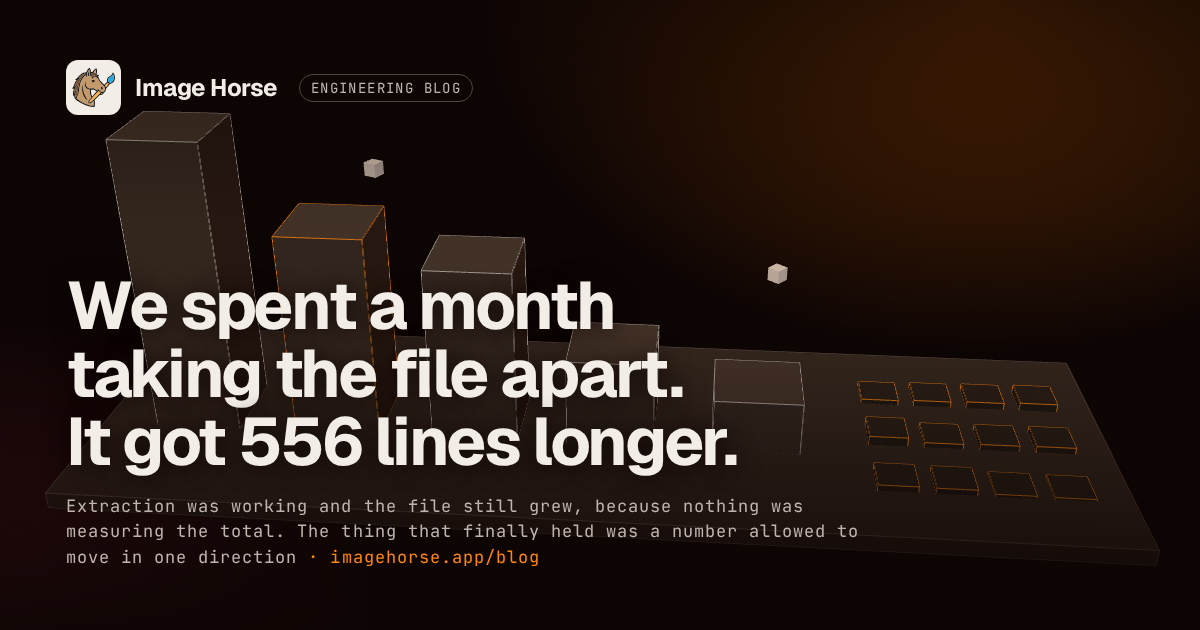
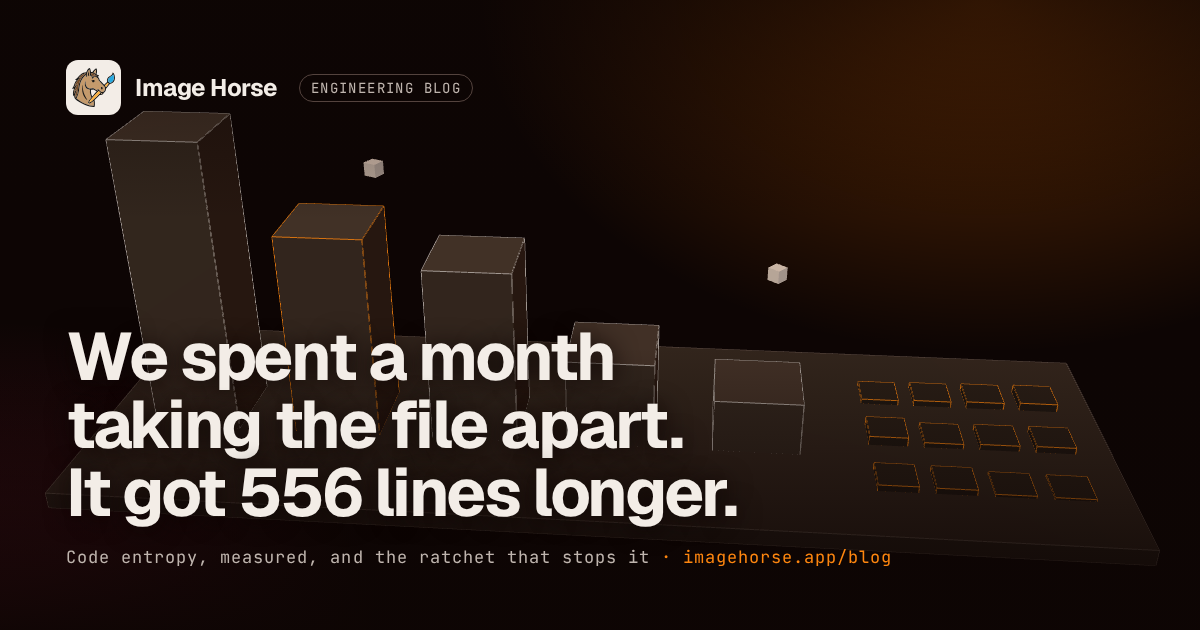
feat(blog): regenerate the social card for the new title, and ship it as WebP
Chris: "Changing the title also means changing the OG image … take a
screenshot, then make that an OG image and compress it too." And the design
project's own OG section now carries the new headline.

The card had gone stale twice over: it was generated before the headline
became 556, and again before the deck was rewritten. It is one still frame of
the post's own header scene — `gen:og --posts` screenshots the scene under
prefers-reduced-motion, which is what makes it a still and what stops it ever
disagreeing with the banner it came from.

The deck is restructured rather than shortened. The generator prints the
deck's first clause, up to the em dash, under the headline; the previous
wording put three lines of mono on the card and crowded the headline into the
wordmark, which the generator's own comment warns about. It now leads with
"Code entropy, measured, and the ratchet that stops it" — 53 characters, one
line, matching the design's strapline — and the whack-a-mole framing follows
the dash, where it still reads as the standfirst on the page.

Compressed at q85, and the number was measured rather than assumed:

  PNG    283,413 B
  q72     27,962 B   RMSE 0.0120
  q80     32,836 B   RMSE 0.0112
  q85     37,400 B   RMSE 0.0097   <- chosen
  q90     45,158 B   RMSE 0.0091

Final file 36,640 B with method=6 — 88% off, and smaller than the hand-drawn
card the offline post ships (49,800 B). Small mono text is where WebP smears,
[…]

Changed region(s): [[0.0308, 0.4524, 0.74, 0.9048]]

diff --git a/marketing/src/data/posts.ts b/marketing/src/data/posts.ts
@@ -84,16 +84,23 @@ export const POSTS: readonly Post[] = [
     slug: "entropy-is-the-default",
     headline: "We spent a month taking the file apart. It got 556 lines longer.",
     title: "Why refactoring made our biggest file bigger",
-    deck: "Extraction was working and the file still grew, because features kept arriving and nothing was measuring the total. That part is inevitable — entropy is whack-a-mole, and you do not win it. The thing that helped was a number allowed to move in one direction.",
+    // The first clause, up to the em dash, is what the social card prints under
+    // the headline (scripts/gen-og-images.mjs). Keeping it short and whole is
+    // deliberate: the previous wording put three lines of mono on the card and
+    // crowded the headline into the wordmark.
+    deck: "Code entropy, measured, and the ratchet that stops it — extraction was working and the file still grew, because features kept arriving. That part is inevitable: entropy is whack-a-mole and you do not win it. What helped was a number allowed to move in one direction.",
     description:
       "AppShell went 3,250 to 3,806 lines during the month it was being dismantled, and is still 314 lines above where it started. What code entropy actually looks like, and what a one-way ratchet did and did not fix.",
     published: "2026-09-28",
     version: "v9.2",
     tag: "engineering",
-    // Committed alongside this entry, per the rule above. It is one frame of
-    // the header's own scene — `gen:og --posts` screenshots it under
-    // prefers-reduced-motion, so the card cannot drift from the banner.
-    ogImage: "/og/blog/entropy-is-the-default.png",
+    // WebP, not the generator's PNG. The card is one still frame of the
+    // header's own scene — `gen:og --posts` screenshots it under
+    // prefers-reduced-motion, so it cannot drift from the banner — and then
+    // compressed at q85: 283,413 B to 36,640 B, 88% off, with the mono
+    // strapline still pixel-clean under a crop comparison. The PNG is kept
+    // beside it as the source the next regeneration overwrites.
+    ogImage: "/og/blog/entropy-is-the-default.webp",
     sources: [
       "marketing/src/posts/entropy-is-the-default.tsx",
       "eslint.config.mjs",
